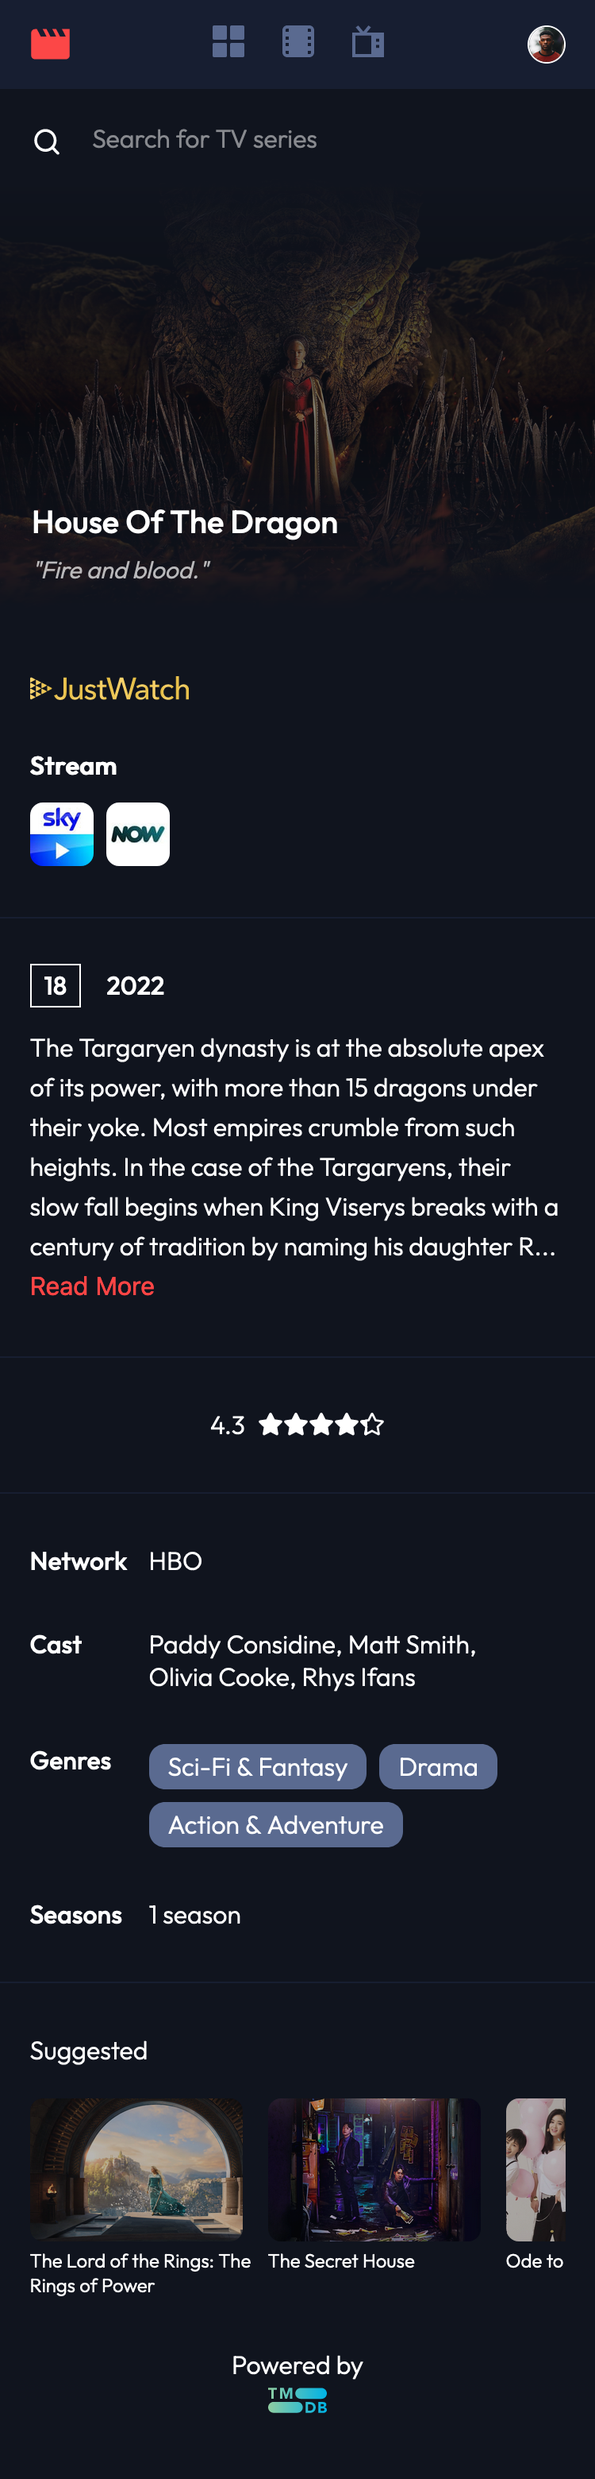
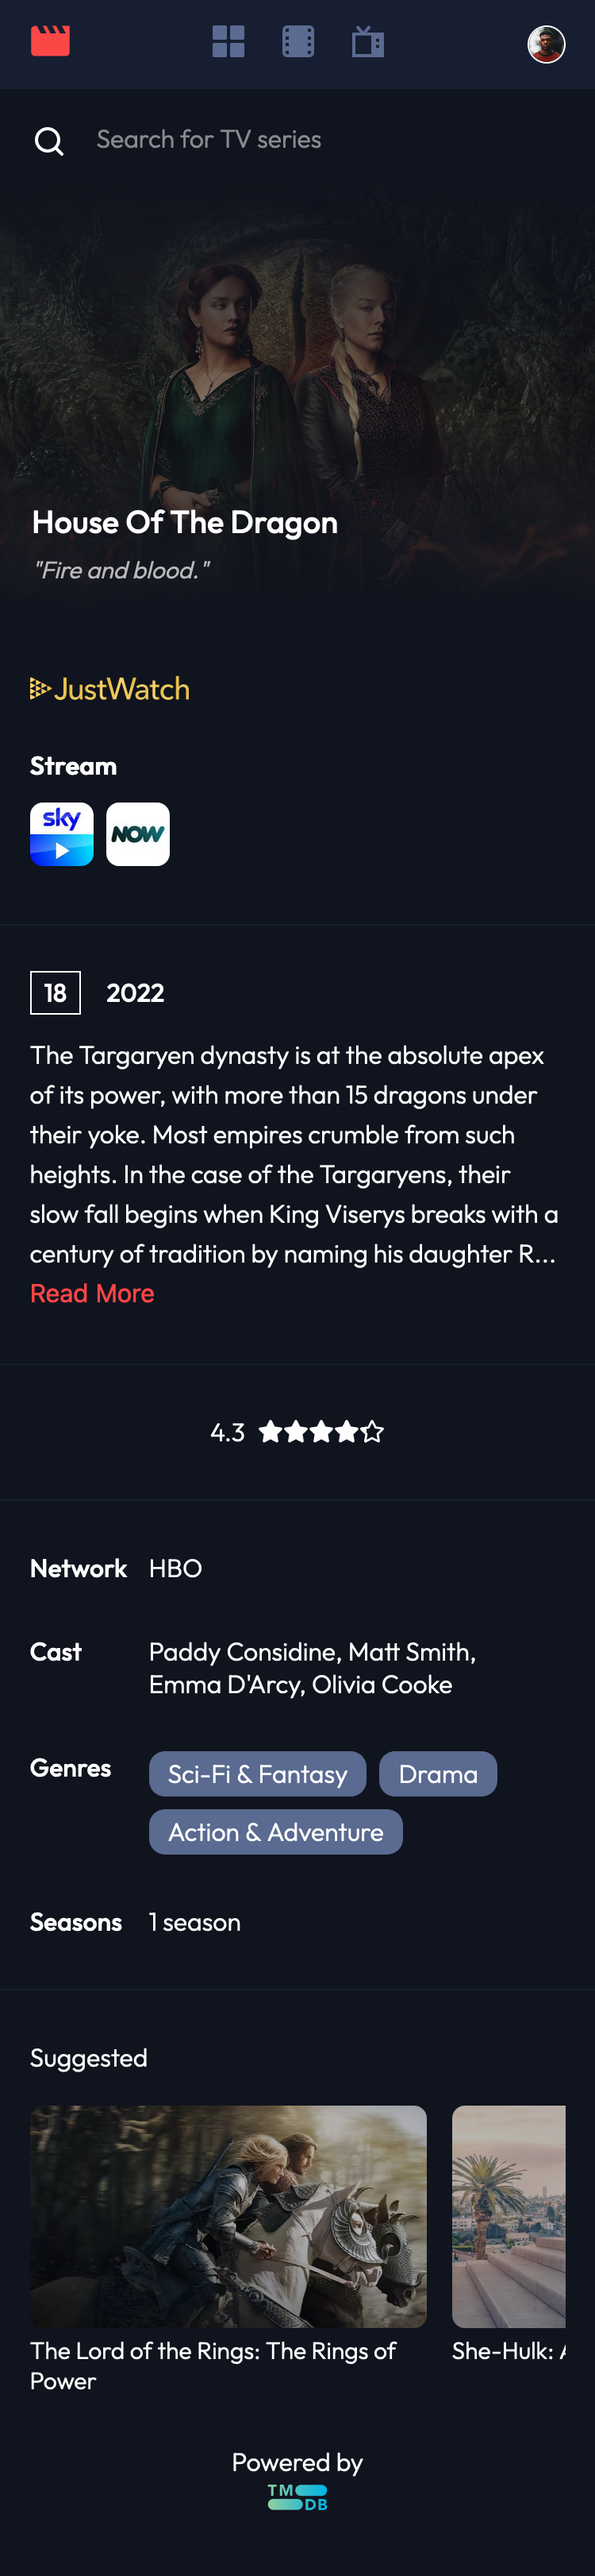
increase suggestion card sizes and add future ideas to readme
increase suggestion card sizes and add future ideas to readme

diff --git a/components/Suggested/Suggested.module.css b/components/Suggested/Suggested.module.css
@@ -33,9 +33,9 @@
 .linkContainer {
   position: relative;
   margin-right: 1rem;
-  min-width: 200px;
-  max-width: 200px;
-  height: 162px;
+  min-width: 250px;
+  max-width: 250px;
+  height: 182px;
   overflow: hidden;
 }
 
@@ -45,7 +45,7 @@
   border-radius: 8px;
   overflow: hidden;
   min-width: 100%;
-  height: 120px;
+  height: 140px;
   opacity: 0.7;
   margin-right: 1rem;
 }
